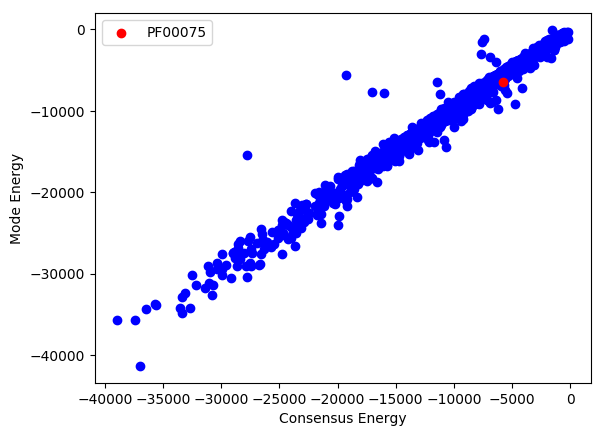
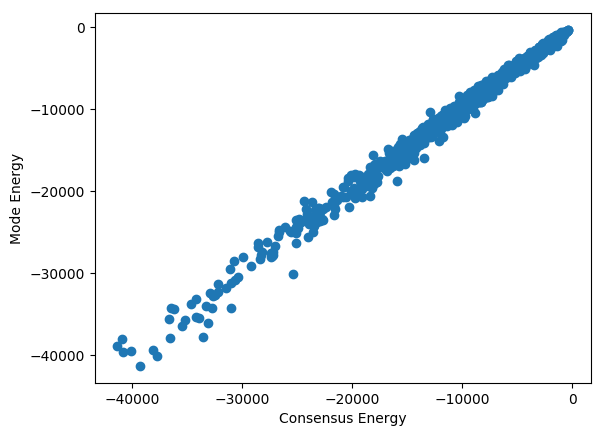
new plots, minor changes

diff --git a/analyse_plot_stats.py b/analyse_plot_stats.py
@@ -4,207 +4,216 @@ from os.path import isfile, join
 import matplotlib.pyplot as plt
 from scipy.stats import pearsonr
 from Bio import SeqIO
+from os import path, stat
 
 
 def get_plot_stat_files(path):
 
-	filenames = [f for f in listdir(path) if isfile(join(path, f))]
-	return filenames
+        filenames = [f for f in listdir(path) if isfile(join(path, f))]
+        return filenames
 
 def get_plot_stats_from_file(filename):
 
-	train_stats = {}
-	test_stats = {}
-	checkpoint = '' 
+        train_stats = {}
+        test_stats = {}
+        checkpoint = '' 
 
-	with open(filename, 'r') as f:
-		for line in f:
-			if line.startswith('TRAIN'):
-				checkpoint = 'train'
-			elif line.startswith('TEST'):
-				checkpoint = 'test'
-			elif line.startswith('-'):
-				checkpoint = None
-			line = line.strip('\n')
+        with open(filename, 'r') as f:
+                for line in f:
+                        if line.startswith('TRAIN'):
+                                checkpoint = 'train'
+                        elif line.startswith('TEST'):
+                                checkpoint = 'test'
+                        elif line.startswith('-'):
+                                checkpoint = None
+                        line = line.strip('\n')
 
-			if checkpoint == 'train' and not line.startswith('TRAIN'):
-				line = line.split(':')
-				train_stats[line[0]] = float(line[1])
-			elif checkpoint == 'test' and not line.startswith('TEST'):
-				line = line.split(':')
-				test_stats[line[0]] = float(line[1])
+                        if checkpoint == 'train' and not line.startswith('TRAIN'):
+                                line = line.split(':')
+                                train_stats[line[0]] = float(line[1])
+                        elif checkpoint == 'test' and not line.startswith('TEST'):
+                                line = line.split(':')
+                                test_stats[line[0]] = float(line[1])
 
-	return train_stats, test_stats
+        return train_stats, test_stats
 
 def analyse_stats(train_stats, test_stats):
-	#train minus test
-	mean_energy_difference, mode_energy_difference, consensus_energy_difference = 0, 0, 0
-	train_mean = train_stats['Mean']
-	mean_energy_difference = train_mean - test_stats['Mean']
-	mode_energy_difference = train_stats['Mode'] - test_stats['Mode']
-	consensus_energy_train = train_stats['Consensus energy']
-	consensus_energy_difference = consensus_energy_train - test_stats['Consensus energy']
+        #train minus test
+        mean_energy_difference, mode_energy_difference, consensus_energy_difference = 0, 0, 0
+        train_mean = train_stats['Mean']
+        mean_energy_difference = train_mean - test_stats['Mean']
+        mode_energy_difference = train_stats['Mode'] - test_stats['Mode']
+        consensus_energy_train = train_stats['Consensus energy']
+        consensus_energy_difference = consensus_energy_train - test_stats['Consensus energy']
 
-	if consensus_energy_difference < 0:
-		print('Consensus from refined alignment has lower energy than consensus from hmm emitted sequences')
-	else:
-		print('Consensus from hmm emitted sequences have lower energy than consensus from refined alignment')
+        if consensus_energy_difference < 0:
+                print('Consensus from refined alignment has lower energy than consensus from hmm emitted sequences')
+        else:
+                print('Consensus from hmm emitted sequences have lower energy than consensus from refined alignment')
 
-	two_deviations_above_mean_value_train = train_stats['Mean'] + 2*train_stats['SD']
-	two_deviations_below_mean_value_train = train_stats['Mean'] - 2*train_stats['SD']
-	if consensus_energy_train > train_stats['Max x']:
-		print('Consensus energy is out of the distribution (right side - high DCA energy)', '#######################')
-	elif consensus_energy_train < train_stats['Min x']:
-		print('Consensus energy is out of the distribution (left side - low DCA energy)')
-	elif consensus_energy_train > two_deviations_above_mean_value_train:
-		print('Consensus energy is two standard deviations above the mean but inside the distribution', '#########################')
-	elif consensus_energy_train < two_deviations_below_mean_value_train:
-		print('Consensus energy is two standard deviations below the mean but inside the distribution')
-	elif consensus_energy_train < two_deviations_above_mean_value_train and consensus_energy_train > train_mean:
-		print('Consensus energy is greater than mean but within two standard deviations')
-	elif consensus_energy_train > two_deviations_below_mean_value_train and consensus_energy_train < train_mean:
-		print('Consensus energy is below the mean but within two standard deviations')
+        two_deviations_above_mean_value_train = train_stats['Mean'] + 2*train_stats['SD']
+        two_deviations_below_mean_value_train = train_stats['Mean'] - 2*train_stats['SD']
+        if consensus_energy_train > train_stats['Max x']:
+                print('Consensus energy is out of the distribution (right side - high DCA energy)', '#######################')
+        elif consensus_energy_train < train_stats['Min x']:
+                print('Consensus energy is out of the distribution (left side - low DCA energy)')
+        elif consensus_energy_train > two_deviations_above_mean_value_train:
+                print('Consensus energy is two standard deviations above the mean but inside the distribution', '#########################')
+        elif consensus_energy_train < two_deviations_below_mean_value_train:
+                print('Consensus energy is two standard deviations below the mean but inside the distribution')
+        elif consensus_energy_train < two_deviations_above_mean_value_train and consensus_energy_train > train_mean:
+                print('Consensus energy is greater than mean but within two standard deviations')
+        elif consensus_energy_train > two_deviations_below_mean_value_train and consensus_energy_train < train_mean:
+                print('Consensus energy is below the mean but within two standard deviations')
 
 def scatter_plot(x, y, plot_name, x_label, y_label):
 
-	plot_name = 'cool_plots/' + plot_name
-	plt.scatter(x, y)
-	plt.xlabel(x_label)
-	plt.ylabel(y_label)
-	plt.savefig(plot_name, bbox_inches='tight')
-	plt.clf()
-	plt.cla()
-	plt.close()
+        plot_name = 'cool_plots/' + plot_name
+        plt.scatter(x, y)
+        plt.xlabel(x_label)
+        plt.ylabel(y_label)
+        plt.savefig(plot_name, bbox_inches='tight')
+        plt.clf()
+        plt.cla()
+        plt.close()
 
 def find_alignment_length(accession):
 
-	refined_alignment_filename = 'refined_alignments/' + accession + '_refined.fasta'
-	for record in SeqIO.parse(refined_alignment_filename, 'fasta'):
-		loa = len(str(record.seq).upper())
-		return loa
+        refined_alignment_filename = 'refined_alignments/' + accession + '_refined.fasta'
+        for record in SeqIO.parse(refined_alignment_filename, 'fasta'):
+                loa = len(str(record.seq).upper())
+                return loa
 
 def main():
 
-	path = 'plot_stats/'
-	filenames = get_plot_stat_files(path)
-	all_train_stats = []
-	refined_consensus_energies = []
-	refined_mode_energies = []
-	refined_mean_energies = []
-	hmm_mode_energies = []
-	mode_minus_refined_consensus = []
-	mode_minus_hmm_consensus = []
-	normed_consensus_energies = []
-	normed_mode_energies = []
-	mode_energy_75, consensus_energy_75, mean_energy_75, hmm_mode_75, mode_minus_refined_cs_75, mode_minus_hmm_cs_75 = 0, 0, 0, 0, 0, 0
+        path = 'plot_stats/'
+        filenames = get_plot_stat_files(path)
+        all_train_stats = []
+        refined_consensus_energies = []
+        refined_mode_energies = []
+        refined_mean_energies = []
+        hmm_mode_energies = []
+        mode_minus_refined_consensus = []
+        mode_minus_hmm_consensus = []
+        normed_consensus_energies = []
+        normed_mode_energies = []
+        mode_energy_75, consensus_energy_75, mean_energy_75, hmm_mode_75, mode_minus_refined_cs_75, mode_minus_hmm_cs_75 = 0, 0, 0, 0, 0, 0
 
-	for f in filenames:
-		#print(f, '************************')
-		#sys.exit()
-		accession = f[0:7]
-		loa = find_alignment_length(accession)
+        for f in filenames:
+                #print(f, '************************')
+                #sys.exit()
+                accession = f[0:7]
+                loa = find_alignment_length(accession)
 
-		if f == 'PF00075_plot_stats.txt':
-			mode_energy_75 = train_stats['Mode']
-			consensus_energy_75 = train_stats['Consensus energy']
-			mean_energy_75 = train_stats['Mean']
-			hmm_mode_75 = test_stats['Mode']
-			mode_minus_refined_cs_75 = abs(mode_energy_75 - consensus_energy_75)
-			mode_minus_hmm_cs_75 = abs(mode_energy_75 - test_stats['Consensus energy'])
-			normed_ce_75 = consensus_energy_75/loa
-			normed_me_75 = mode_energy_75/loa
+                if f == 'PF00075_plot_stats.txt':
+                        mode_energy_75 = train_stats['Mode']
+                        consensus_energy_75 = train_stats['Consensus energy']
+                        mean_energy_75 = train_stats['Mean']
+                        hmm_mode_75 = test_stats['Mode']
+                        mode_minus_refined_cs_75 = abs(mode_energy_75 - consensus_energy_75)
+                        mode_minus_hmm_cs_75 = abs(mode_energy_75 - test_stats['Consensus energy'])
+                        normed_ce_75 = consensus_energy_75/loa
+                        normed_me_75 = mode_energy_75/loa
 
-		fname = path + f
-		train_stats, test_stats = get_plot_stats_from_file(fname)
-		all_train_stats.append(train_stats)
-		refined_consensus_energies.append(train_stats['Consensus energy'])
-		refined_mode_energies.append(train_stats['Mode'])
-		refined_mean_energies.append(train_stats['Mean'])
-		hmm_mode_energies.append(test_stats['Mode'])
-		mode_minus_refined_consensus.append(abs(train_stats['Mode'] - train_stats['Consensus energy']))
-		mode_minus_hmm_consensus.append(abs(train_stats['Mode'] - test_stats['Consensus energy']))
-		normed_consensus_energies.append(train_stats['Consensus energy']/loa)
-		normed_mode_energies.append(train_stats['Mode']/loa)
+                fname = path + f
+                train_stats, test_stats = get_plot_stats_from_file(fname)
+                all_train_stats.append(train_stats)
+                refined_consensus_energies.append(train_stats['Consensus energy'])
+                refined_mode_energies.append(train_stats['Mode'])
+                refined_mean_energies.append(train_stats['Mean'])
+                hmm_mode_energies.append(test_stats['Mode'])
+                mode_minus_refined_consensus.append(abs(train_stats['Mode'] - train_stats['Consensus energy']))
+                mode_minus_hmm_consensus.append(abs(train_stats['Mode'] - test_stats['Consensus energy']))
+                try:
+                    normed_consensus_energies.append(train_stats['Consensus energy']/loa)
+                    normed_mode_energies.append(train_stats['Mode']/loa)
+                except:
+                    continue
 
-	plot_name = 'cool_plots/' + 'consensus_energy_vs_mode_energy'
-	plt.scatter(refined_consensus_energies, refined_mode_energies, color = 'blue')
-	plt.scatter([consensus_energy_75], [mode_energy_75], color = 'red', label = 'PF00075')
-	plt.legend(loc = 'upper left')
-	plt.xlabel('Consensus Energy')
-	plt.ylabel('Mode Energy')
-	plt.savefig(plot_name, bbox_inches='tight')
-	plt.clf()
-	plt.cla()
-	plt.close()
+        '''
+        plot_name = 'cool_plots/' + 'consensus_energy_vs_mode_energy'
+        plt.scatter(refined_consensus_energies, refined_mode_energies, color = 'blue')
+        plt.scatter([consensus_energy_75], [mode_energy_75], color = 'red', label = 'PF00075')
+        plt.legend(loc = 'upper left')
+        plt.xlabel('Consensus Energy')
+        plt.ylabel('Mode Energy')
+        plt.savefig(plot_name, bbox_inches='tight')
+        plt.clf()
+        plt.cla()
+        plt.close()
 
-	plot_name = 'cool_plots/' + 'normed_consensus_energy_vs_mode_energy.png'
-	plt.scatter(normed_consensus_energies, normed_mode_energies, color = 'blue')
-	#plt.scatter([normed_ce_75], [normed_me_75], color = 'red', label = 'PF00075')
-	#plt.legend(loc = 'upper left')
-	plt.xlabel('Consensus Energy/Length of Alignment')
-	plt.ylabel('Mode Energy/Length of Alignment')
-	plt.savefig(plot_name, bbox_inches='tight')
-	plt.clf()
-	plt.cla()
-	plt.close()
+        plot_name = 'cool_plots/' + 'normed_consensus_energy_vs_mode_energy.png'
+        plt.scatter(normed_consensus_energies, normed_mode_energies, color = 'blue')
+        #plt.scatter([normed_ce_75], [normed_me_75], color = 'red', label = 'PF00075')
+        #plt.legend(loc = 'upper left')
+        plt.xlabel('Consensus Energy/Length of Alignment')
+        plt.ylabel('Mode Energy/Length of Alignment')
+        plt.savefig(plot_name, bbox_inches='tight')
+        plt.clf()
+        plt.cla()
+        plt.close()
 
 
-	plot_name = 'cool_plots/' + 'consensus_energy_vs_mean_energy'
-	plt.scatter(refined_consensus_energies, refined_mean_energies, color = 'blue')
-	plt.scatter([consensus_energy_75], [mean_energy_75], color = 'red', label = 'PF00075')
-	plt.legend(loc = 'upper left')
-	plt.xlabel('Consensus Energy')
-	plt.ylabel('Mean Energy')
-	plt.savefig(plot_name, bbox_inches='tight')
-	plt.clf()
-	plt.cla()
-	plt.close()
+        plot_name = 'cool_plots/' + 'consensus_energy_vs_mean_energy'
+        plt.scatter(refined_consensus_energies, refined_mean_energies, color = 'blue')
+        plt.scatter([consensus_energy_75], [mean_energy_75], color = 'red', label = 'PF00075')
+        plt.legend(loc = 'upper left')
+        plt.xlabel('Consensus Energy')
+        plt.ylabel('Mean Energy')
+        plt.savefig(plot_name, bbox_inches='tight')
+        plt.clf()
+        plt.cla()
+        plt.close()
 
-	plot_name = 'cool_plots/' + 'refined_mode_vs_hmm_mode.png'
-	plt.scatter(refined_mode_energies, hmm_mode_energies, color = 'blue')
-	plt.scatter([mode_energy_75], [hmm_mode_75], color = 'red', label = 'PF00075')
-	plt.legend(loc = 'upper left')
-	plt.xlabel('Mode energies (refined alignment)')
-	plt.ylabel('Mode energies (HMM alignment)')
-	plt.savefig(plot_name, bbox_inches='tight')
-	plt.clf()
-	plt.cla()
-	plt.close()
+        plot_name = 'cool_plots/' + 'refined_mode_vs_hmm_mode.png'
+        plt.scatter(refined_mode_energies, hmm_mode_energies, color = 'blue')
+        plt.scatter([mode_energy_75], [hmm_mode_75], color = 'red', label = 'PF00075')
+        plt.legend(loc = 'upper left')
+        plt.xlabel('Mode energies (refined alignment)')
+        plt.ylabel('Mode energies (HMM alignment)')
+        plt.savefig(plot_name, bbox_inches='tight')
+        plt.clf()
+        plt.cla()
+        plt.close()
 
-	plot_name = 'cool_plots/' + 'mode_minus_consensuses.png'
-	plt.scatter(mode_minus_refined_consensus, mode_minus_hmm_consensus, color = 'blue')
-	plt.scatter([mode_minus_refined_cs_75], [mode_minus_hmm_cs_75], color = 'red', label = 'PF00075')
-	plt.legend(loc = 'upper left')
-	plt.xlabel('(Mode Energy) - (Refined Consensus Energy)')
-	plt.ylabel('(Mode Energy) - (HMM Consensus Energy)')
-	plt.savefig(plot_name, bbox_inches='tight')
-	plt.clf()
-	plt.cla()
-	plt.close()
+        plot_name = 'cool_plots/' + 'mode_minus_consensuses.png'
+        plt.scatter(mode_minus_refined_consensus, mode_minus_hmm_consensus, color = 'blue')
+        plt.scatter([mode_minus_refined_cs_75], [mode_minus_hmm_cs_75], color = 'red', label = 'PF00075')
+        plt.legend(loc = 'upper left')
+        plt.xlabel('(Mode Energy) - (Refined Consensus Energy)')
+        plt.ylabel('(Mode Energy) - (HMM Consensus Energy)')
+        plt.savefig(plot_name, bbox_inches='tight')
+        plt.clf()
+        plt.cla()
+        plt.close()
+        '''
+        
+        #normed consensus energy
+        scatter_plot(normed_consensus_energies, normed_mode_energies, 'normed_consensus_energy_vs_mode_energy.png',
+                'Consensus Energy/Length of Alignment', 'Mode Energy/Length of Alignment')
 
-	'''
-	#consensus energy vs mode energy
-	scatter_plot(refined_consensus_energies, refined_mode_energies, 'consensus_energy_vs_mode_energy.png',
-		'Consensus Energy', 'Mode Energy')
+        #consensus energy vs mode energy
+        #plot_name = 'cool_plots/' + 'normed_consensus_energy_vs_mode_energy.png'
+        scatter_plot(refined_consensus_energies, refined_mode_energies, 'consensus_energy_vs_mode_energy.png',
+                'Consensus Energy', 'Mode Energy')
 
-	#consensus energy vs mean energy
-	scatter_plot(refined_consensus_energies, refined_mean_energies, 'consensus_energy_vs_mean_energy.png',
-		'Consensus Energy', 'Mean Energy')
+        #consensus energy vs mean energy
+        scatter_plot(refined_consensus_energies, refined_mean_energies, 'consensus_energy_vs_mean_energy.png',
+                'Consensus Energy', 'Mean Energy')
 
-	#refined mode energy vs hmm mode enegy
-	scatter_plot(refined_mode_energies, hmm_mode_energies, 'refined_mode_vs_hmm_mode.png',
-		'Mode Energy (Refined Alignment)', 'Mode Energy (HMM Alignment)')
+        #refined mode energy vs hmm mode enegy
+        scatter_plot(refined_mode_energies, hmm_mode_energies, 'refined_mode_vs_hmm_mode.png',
+                'Mode Energy (Refined Alignment)', 'Mode Energy (HMM Alignment)')
 
-	#mode - refined consensus vs mode - hmm consensus
-	scatter_plot(mode_minus_refined_consensus, mode_minus_hmm_consensus, 'mode_minus_consensuses.png',
-		'Mode - Refined Consensus', 'Mode - HMM Consensus')
+        #mode - refined consensus vs mode - hmm consensus
+        scatter_plot(mode_minus_refined_consensus, mode_minus_hmm_consensus, 'mode_minus_consensuses.png',
+                'Mode - Refined Consensus', 'Mode - HMM Consensus')
 
-	'''
-	#mode energy and consensus energy correlation
-	#wow it's almost 1
-	corr = pearsonr(refined_mode_energies, refined_consensus_energies)
-	print(corr[0])
+        #mode energy and consensus energy correlation
+        #wow it's almost 1
+        corr = pearsonr(refined_mode_energies, refined_consensus_energies)
+        print('Correlation Coefficient (Consensus Energy and Mode Energy): ',corr[0])
 
 
 if __name__ == '__main__':
-	main()
+        main()
